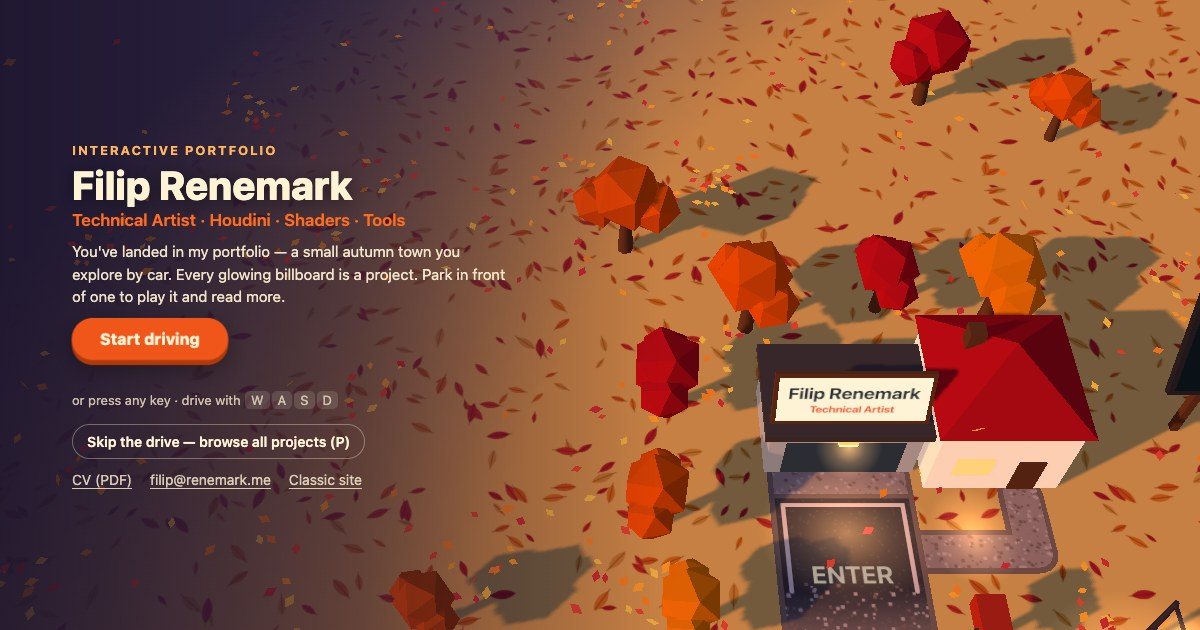
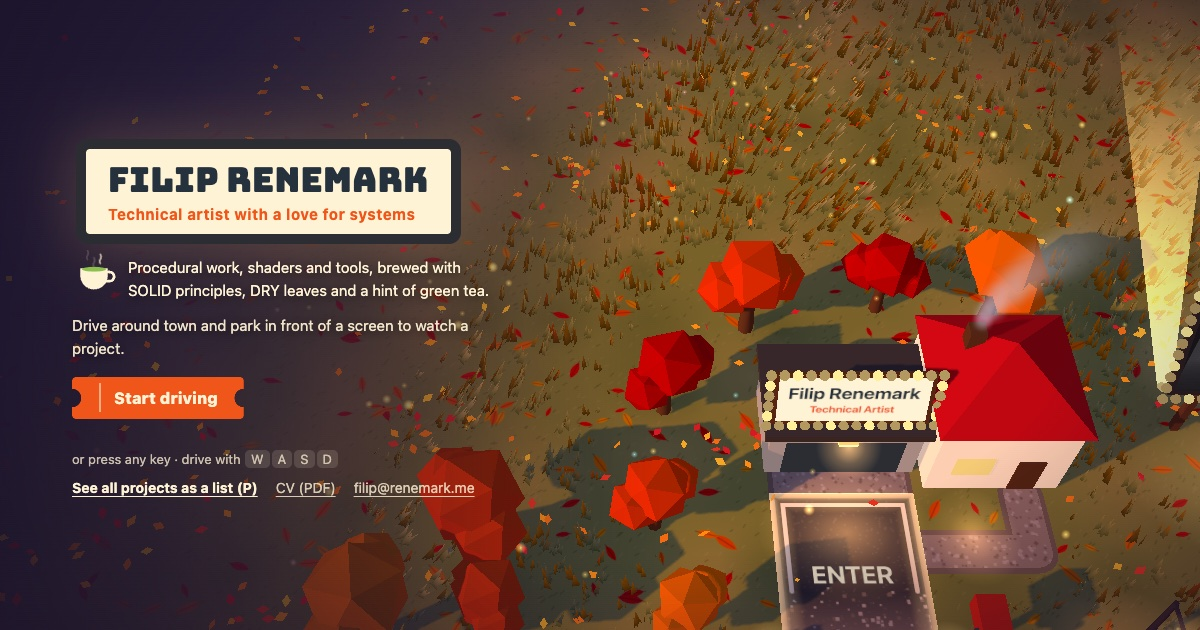
New share image from the new front page
Old one kept as preview-v2.jpg. ?v=3 on og:image so sites fetch the new one.

diff --git a/index.html b/index.html
@@ -24,7 +24,7 @@
   <meta property="og:title" content="Filip Renemark · Technical Artist">
   <meta property="og:description" content="Drive around my portfolio: procedural work, shaders, and tools.">
   <meta property="og:url" content="https://fungusflip.github.io/portfolio/">
-  <meta property="og:image" content="https://fungusflip.github.io/portfolio/assets/images/preview.jpg">
+  <meta property="og:image" content="https://fungusflip.github.io/portfolio/assets/images/preview.jpg?v=3">
   <meta property="og:image:width" content="1200">
   <meta property="og:image:height" content="630">
   <!-- Säger till X/Twitter (och Discord) att visa bilden stort i stället för som en liten ruta. -->
